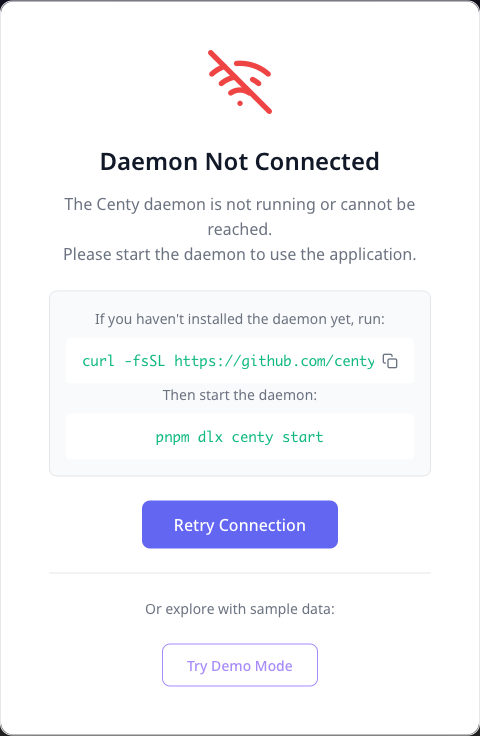
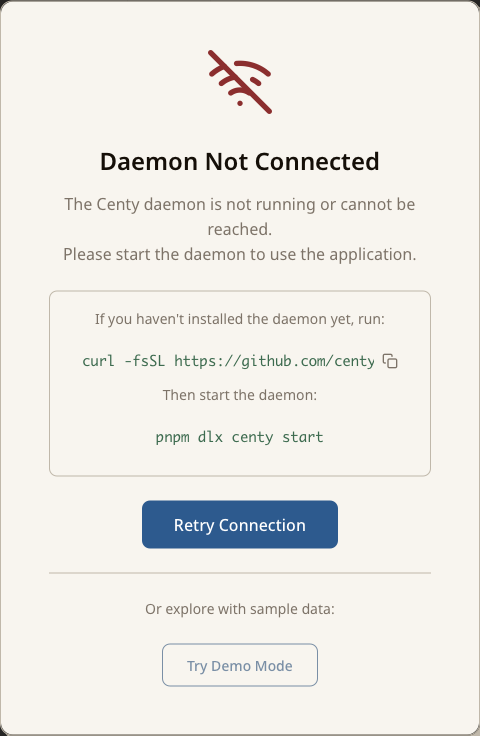
fix: enable @typescript-eslint/prefer-find (#173)
* fix: enable @typescript-eslint/prefer-find and replace .filter()[0] with .find()

* fix: update visual snapshots after merge from main

* fix: format centy manifest after status update

---------

diff --git a/eslint.config.js b/eslint.config.js
@@ -33,8 +33,9 @@ export default [
       // Miscellaneous stylistic rules from stylisticTypeChecked
       '@typescript-eslint/no-base-to-string': 'off',
       '@typescript-eslint/use-unknown-in-catch-callback-variable': 'off',
-      '@typescript-eslint/prefer-find': 'off',
       '@typescript-eslint/no-meaningless-void-operator': 'off',
+      '@typescript-eslint/prefer-regexp-exec': 'off',
+      '@typescript-eslint/no-unnecessary-type-parameters': 'off',
       '@typescript-eslint/consistent-generic-constructors': 'off',
     },
   },

diff --git a/components/layout/LegacyUrlRedirect.tsx b/components/layout/LegacyUrlRedirect.tsx
@@ -55,7 +55,7 @@ export function LegacyUrlRedirect() {
           const orgPart = result.orgSlug || UNGROUPED_ORG_MARKER
 
           // Extract the page from pathname (e.g., /issues -> issues)
-          const page = pathname.split('/').filter(Boolean)[0] || 'issues'
+          const page = pathname.split('/').find(Boolean) || 'issues'
 
           // Build new URL and redirect
           router.replace(

diff --git a/.centy/issues/a23265fb-ce43-40fc-bac1-42a55990e0f3.md b/.centy/issues/a23265fb-ce43-40fc-bac1-42a55990e0f3.md
@@ -1,10 +1,10 @@
 ---
 # This file is managed by Centy. Use the Centy CLI to modify it.
 displayNumber: 236
-status: in-progress
+status: closed
 priority: 2
 createdAt: 2026-04-03T08:15:09.866532+00:00
-updatedAt: 2026-04-03T08:53:36.278834+00:00
+updatedAt: 2026-04-03T15:51:10.769686+00:00
 ---
 
 # Enable @typescript-eslint/prefer-find
